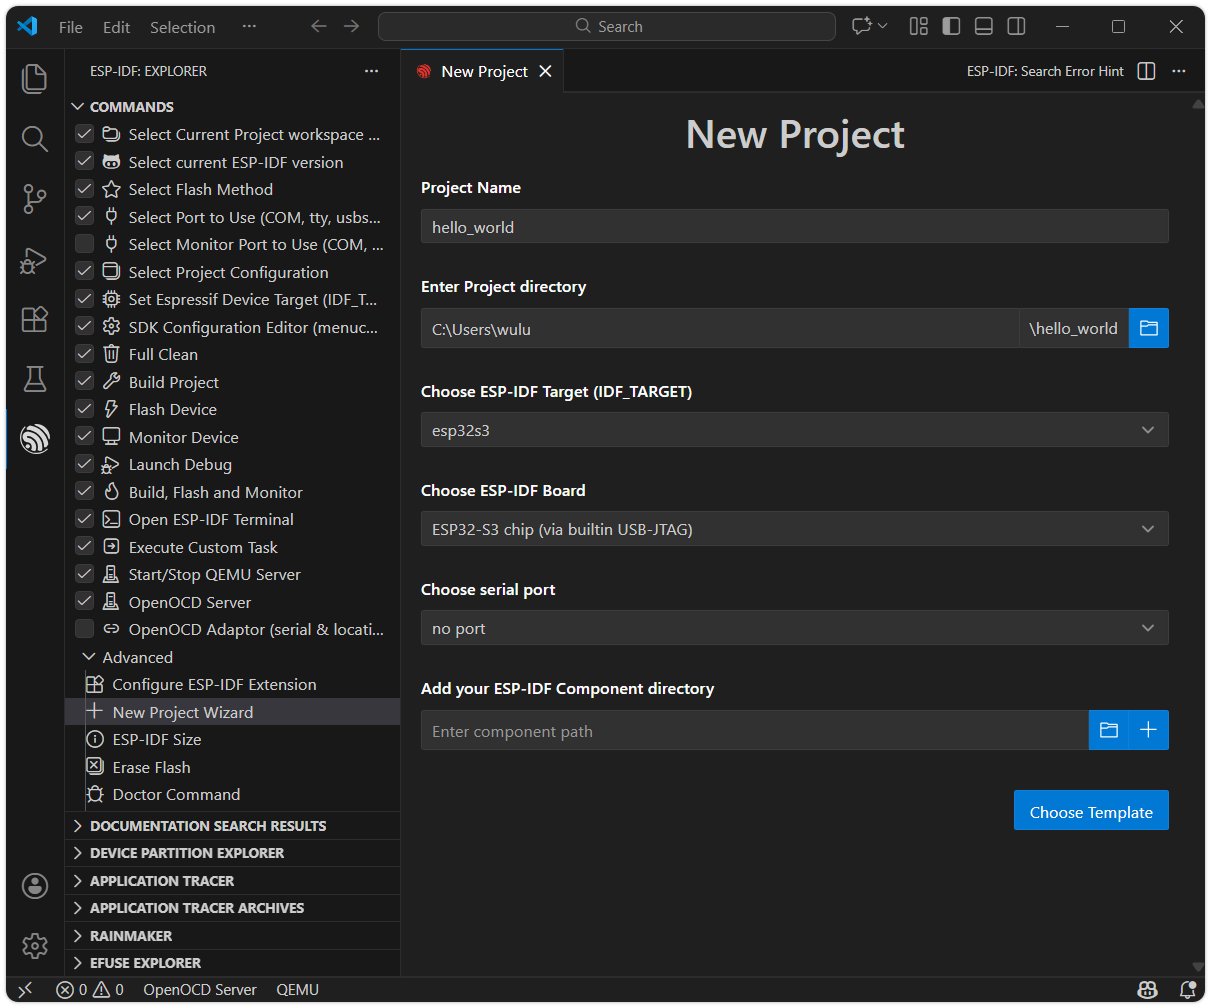
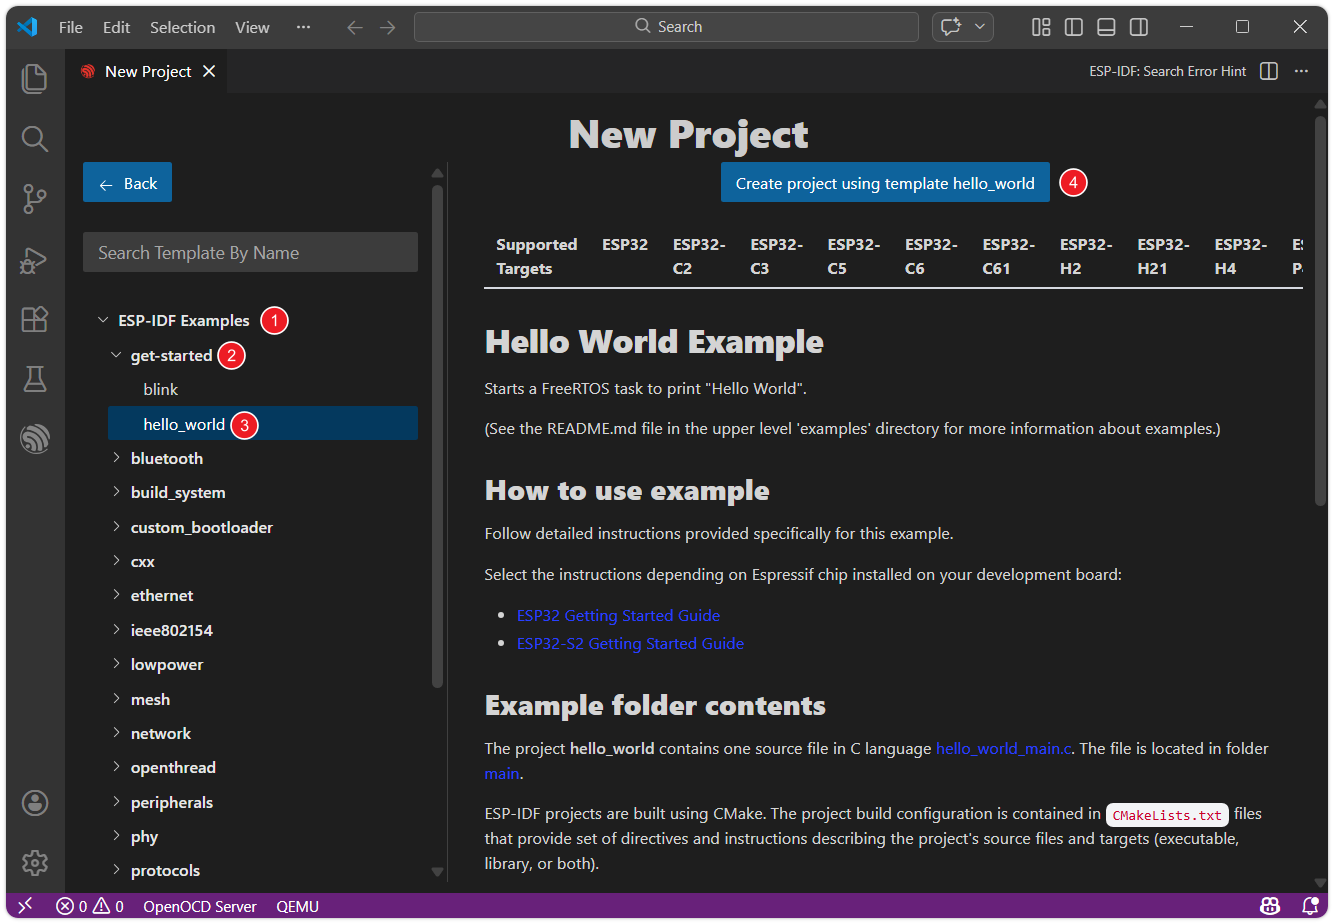
content: update ESP-IDF tutorials content and visuals
- revise 02-Example.md to reflect the New Project Wizard flow: update steps for creating a project from ESP-IDF examples/template hello_world, replace old prompts with wizard-based instructions, wrap images with responsive divs, adjust warning blocks and prompts, and insert new output screenshots
- revise 03-Create-Project.md to align with New Project Wizard: change wording for opening the wizard, add new previews for ESP-IDF version, template selection, and open project prompts; replace some images with updated visuals and add container wrappers
- update multiple tutorial asset images (webp) to match new UI (binary diffs shown for 02-Example-3.webp, 02-Example-4.webp, 02-Example-6.webp, 03-Choose-Template.webp, 03-Project-Setup.webp, and others)

Changed region(s): [[0.0, 0.0, 1.0, 1.0], [0.8249, 0.0909, 1.0, 0.5455], [0.7944, 0.2424, 0.8249, 0.303]]

diff --git a/docs/ESP32/Tutorials/ESP-IDF-Tutorials/02-Example.md b/docs/ESP32/Tutorials/ESP-IDF-Tutorials/02-Example.md
@@ -28,29 +28,39 @@ Let's start with "Hello World" example. This program prints "Hello, world!" to t
 
 ## 1.1 Open the Example
 
-1. Open VS Code and click the icon to start the ESP-IDF extension. Under the "**Advanced**" option, click "**Show Examples Project**".
+1. Open VS Code and click the icon to launch the ESP-IDF extension. Under the **Advanced** section, click **New Project Wizard**.
 
-   ![Open Example 1](./images/02-Example-1.webp)
+   <div style={{maxWidth:300}}>
+   ![New Project Wizard](./images/02-Example-1.webp)
+   </div>
 
-2. Select your ESP-IDF version.
+2. Select the ESP-IDF version.
 
-   ![Open Example 2](./images/02-Example-2.webp)
+   <div style={{maxWidth:600}}>
+   ![Select ESP-IDF Version](./images/02-Example-2.webp)
+   </div>
 
-3. Set the project name, storage location, and relevant parameters. Board-related parameters can be modified after the project is created. After completing the settings, click **"Choose Template"**.
+3. In the list, find **ESP-IDF Examples**, then select **hello_world** under the **get-started** category. Click **Create project using template hello_world**.
+
+   <div style={{maxWidth:800}}>
+   ![Select Template](./images/02-Example-3.webp)
+   </div>
+
+4. Set the project name, storage location, and other parameters. Board-related parameters can be modified after the project is created. Once done, click **Create project**.
 
    :::warning
-   The project path should not contain spaces, Chinese characters, or special characters.
+   The project path must not contain spaces, Chinese characters, or special characters.
    :::
 
-   ![Open Example 3](./images/02-Example-3.webp)
+   <div style={{maxWidth:800}}>
+   ![Project Settings](./images/02-Example-4.webp)
+   </div>
 
-4. Under the ESP-IDF category, navigate to **"get-started"** and select **"hello_world"**. Then click **"Create project using template hello_world"**.
+5. The ESP-IDF extension will automatically copy the example code to the specified location and display "Project has been created!". Click **Open project** to open the example project.
 
-   ![Open Example 4](./images/02-Example-4.webp)
-
-5. The ESP-IDF extension will automatically copy the example code to the specified location and display "Project has been created!". Click **"Open project"** to open the example project.
-
-   ![Open Example 5](./images/02-Example-5.webp)
+   <div style={{maxWidth:600}}>
+   ![Open Project](./images/02-Example-5.webp)
+   </div>
 
 ### 1.2 Project Structure
 
@@ -84,19 +94,25 @@ Before building and flashing, we need to set up the target hardware and connecti
 
 1. Click ![VSCode Select Flash Type Icon](./images/02-VSCode-Flash-Type-Icon.webp)  to select the flashing method: Select the UART interface.
 
+   <div style={{maxWidth:600}}>
    ![VSCode Select Flash Type Option](./images/02-Configure1.webp)
+   </div>
 
 2. Click ![VSCode Select Serial Port Icon](./images/02-VSCode-Serial-Port-Icon.webp) to select the serial port: Connect the ESP32 development board to the computer. Click the port number and select the serial port corresponding to the development board from the list.
 
    - Tip: If you're unsure which port, unplug and replug the board to see which one appears.
 
    - Troubleshooting: If you can't find a new port, try manually entering download mode: **Press and hold the "BOOT" button, plug in the USB cable, and then release the button**. Then check again to find the correct port.
-
+   
+   <div style={{maxWidth:600}}>
    ![VSCode Select Serial Port Option](./images/02-Configure2.webp)
+   </div>
 
 3. Click ![VSCode Select Target Device Icon](./images/02-VSCode-Chip-Target-Icon.webp) to select the target device: Click the chip name (e.g., esp32s3) and select the chip model that exactly matches the development board.
 
+   <div style={{maxWidth:600}}>
    ![VS Code Select Device Chip Option](./images/02-Configure3.webp)
+   </div>
 
    When setting up the target device, ESP-IDF requires configuring the corresponding toolchain and libraries. This process may take some time, please wait patiently for it to complete. For more details, please refer to the [Official Documentation](https://docs.espressif.com/projects/esp-idf/en/latest/esp32s3/api-guides/tools/idf-py.html#set-target).
 
@@ -131,7 +147,9 @@ Click ![VS Code Monitor Device Icon](./images/02-VSCode-Monitor-Icon.webp) to mo
 
 After startup, the terminal will connect to the development board. You will see the output of the "Hello World" example.
 
+<div style={{maxWidth:600}}>
 ![Hello World Example Output](./images/02-HelloWorld-Output.webp)
+</div>
 
 You can exit the ESP-IDF monitor using the shortcut key <kbd>Ctrl</kbd> + <kbd>]</kbd>.
 
@@ -149,7 +167,9 @@ This program's function is to make the onboard LED on the development board blin
 
 The steps to open the "Blink" example are exactly the same as "Hello World", just select get-started/blink from the example list.
 
+<div style={{maxWidth:800}}>
 ![Open Example 6](./images/02-Example-6.webp)
+</div>
 
 ### 2.2 Project Structure & sdkconfig
 
@@ -196,8 +216,10 @@ Firstly, before building and flashing, please make sure to check and set the cor
        Unlike the command-line configuration tool (TUI) provided by `idf.py menuconfig`, the ESP-IDF VS Code plugin offers a more intuitive graphical configuration interface.
 
     2. Modify the configuration according to the onboard LED of the development board:
-    
+       
+       <div style={{maxWidth:800}}>
        ![Set Project Configuration in the SDK Configuration Editor](./images/02-Set-LED-Pin.webp)
+       </div>
        
        - Blink LED type: Select the LED type.
          - `GPIO`: Regular LED.
@@ -218,11 +240,15 @@ Firstly, before building and flashing, please make sure to check and set the cor
        idf.py menuconfig
        ```
        
+       <div style={{maxWidth:600}}>
        ![Open menuconfig](./images/02-Menuconfig-1.webp)
+       </div>
     
        This will open a text-based menu interface that can be navigated using the arrow keys, and you can enter by pressing the Enter key or the Space key. Press <kbd>Esc</kbd> to return, which is used to set the specific parameters of the project.
     
+       <div style={{maxWidth:600}}>
        ![menuconfig 2](./images/02-Menuconfig-2.webp)
+       </div>
     
     2. Enter **Example Configuration** to modify the project settings:
     
@@ -232,7 +258,9 @@ Firstly, before building and flashing, please make sure to check and set the cor
        - Blink GPIO number: Set the GPIO pin number connected to the LED.
        - Blink period in ms: Set the period of LED blinking (unit: milliseconds).
     
+       <div style={{maxWidth:600}}>
        ![menuconfig 3](./images/02-Menuconfig-3.webp)
+       </div>
           
        :::info
        This tutorial uses the [**Waveshare ESP32-S3-Zero Mini Development Board**](https://www.waveshare.com/esp32-s3-zero.htm), which has a WS2812 addressable LED connected to GPIO 21 pin.
@@ -247,5 +275,7 @@ Firstly, before building and flashing, please make sure to check and set the cor
 1. Click ![VS Code One-Click Build Flash Monitor Icon](./images/02-VSCode-BuildFlashMonitor-Icon.webp) to automatically perform the build, flash, and monitor steps in sequence with one click.
 
 2. After the flashing is completed, you will see the LED on the development board start to blink. At the same time, the serial monitor will start and output the following log information:
-
+   
+   <div style={{maxWidth:600}}>
    ![Blink Example Output](./images/02-Blink-Output.webp)
+   </div>

diff --git a/docs/ESP32/Tutorials/ESP-IDF-Tutorials/03-Create-Project.md b/docs/ESP32/Tutorials/ESP-IDF-Tutorials/03-Create-Project.md
@@ -37,35 +37,47 @@ Connect the circuit according to the wiring diagram below:
 
 ## 2. Create a Project from a Template
 
-1. Open VS Code, click on the ESP-IDF extension, and open the "**New Project Wizard**" under "**Advanced**".
+1. Open VS Code, click the ESP-IDF extension, and open the **New Project Wizard** under **Advanced**.
 
+   <div style={{maxWidth:350}}>
    ![New Project Wizard](./images/03-New-Project-Wizard.webp)
+   </div>
 
 2. Select the ESP-IDF version.
 
+   <div style={{maxWidth:600}}>
    ![Select ESP-IDF Version](./images/03-Choose-ESP-IDF-Version.webp)
+   </div>
 
-3. Set the project name, storage location, and relevant parameters. Board-related parameters can be modified after the project is created. After completing the settings, click "**Choose Template**".
+3. Under **ESP-IDF Templates**, select the **sample_project** template, then click **Create project using template sample_project**.
+
+   <div style={{maxWidth:800}}>
+   ![Select Template](./images/03-Choose-Template.webp)
+   </div>
+
+4. Set the project name, storage location, and other parameters. Board-related parameters can be modified after the project is created. Once done, click **Create Project**.
 
    :::warning
-   The project path should not contain spaces, Chinese characters, or special characters.
+   The project path must not contain spaces, Chinese characters, or special characters.
    :::
 
-   ![Project Setup](./images/03-Project-Setup.webp)
+   <div style={{maxWidth:600}}>
+   ![Project Settings](./images/03-Project-Setup.webp)
+   </div>
 
-4. Select the "**sample_project**" template, then click "**Create project using template sample_project**".
+5. Click **Open Project** to open the new project.
 
-   ![Select Template](./images/03-Choose-Template.webp)
-
-5. After the project is created, the ESP-IDF extension will display "Project created!" Click "Open Project" to open the new project.
-
+   <div style={{maxWidth:600}}>
    ![Open New Project](./images/03-Open-New-Project-Prompt.webp)
+   </div>
 
 ## 3. Write Code
 
 ESP-IDF will generate many files and folders for the project. In this getting started guide, it is recommended to keep all the default files intact and we will only need to modify the `main.c` file.
 
+<div style={{maxWidth:800}}>
 ![main.c File](./images/03-Main_c.webp)
+</div>
 
 1. Write the following code:
 
@@ -119,8 +131,10 @@ ESP-IDF will generate many files and folders for the project. In this getting st
 2. Click ![VS Code One-Click Build Flash Monitor Icon](./images/02-VSCode-BuildFlashMonitor-Icon.webp) to automatically perform the build, flash, and monitor steps in sequence with one click.
 
 3. After the flashing is complete, you will see the LED start blinking. At the same time, the serial monitor will start and output the following log information:
-
+   
+   <div style={{maxWidth:600}}>
    ![Blink Example Output](./images/03-Blinky-Output.webp)
+   </div>
 
 ## 5. Code Analysis
 
